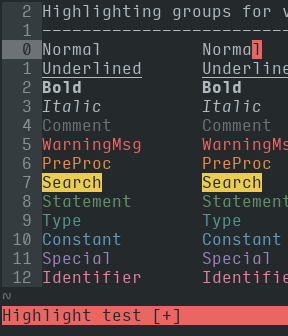
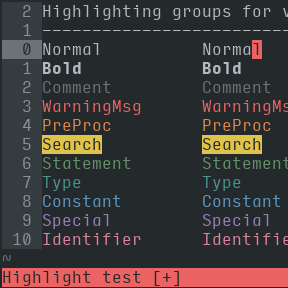
overhaul

Changed region(s): [[0.0, 0.0, 0.5, 0.875], [0.1562, 0.0, 1.0, 0.875], [0.0, 0.875, 1.0, 1.0]]

diff --git a/README.md b/README.md
@@ -10,6 +10,10 @@
 <td align="center"><strong>forgotten-<br />dark</strong></td></tr>
 </table>
 
+<blockquote>
+  <p>pictured font: <a href="http://input.fontbureau.com/">Input Mono</a></p>
+</blockquote>
+
 <h2 id="setup">setup</h2>
 
 <h3 id="installation">installation</h3>
@@ -60,8 +64,8 @@ call plug#end()
   <li>8 theme-distinct <strong>base colours</strong></li>
   <li>8 standard <strong>accent colours</strong> (shared by members of the “nightsense theme family”) for syntax highlighting
     <ul>
-      <li>hue selection at the scale of 1/12 (30°) colour wheel intervals, followed by 1/12 subinterval adjustments</li>
-      <li>value and saturation tuned for light backgrounds, then saturation lowered for dark backgrounds</li>
+      <li>hues were selected at the scale of 1/12 (30°) colour wheel intervals, followed by 1/12 subinterval adjustments</li>
+      <li>value and saturation were tuned for light backgrounds, then saturation was lowered for dark backgrounds</li>
     </ul>
   </li>
 </ul>
@@ -77,67 +81,67 @@ call plug#end()
   <tbody>
     <tr>
       <td style="text-align: right"><img src="http://www.colorhexa.com/24292b.png" height="24" width="42" /> <code class="highlighter-rouge">24292b</code> </td>
-      <td style="text-align: center"><img src="http://www.colorhexa.com/eb403a.png" height="24" width="42" /> <code class="highlighter-rouge">eb403a</code> </td>
-      <td style="text-align: left"><img src="http://www.colorhexa.com/eb6663.png" height="24" width="42" /> <code class="highlighter-rouge">eb6663</code></td>
+      <td style="text-align: center"><img src="http://www.colorhexa.com/eb3a3a.png" height="24" width="42" /> <code class="highlighter-rouge">eb3a3a</code> </td>
+      <td style="text-align: left"><img src="http://www.colorhexa.com/eb6363.png" height="24" width="42" /> <code class="highlighter-rouge">eb6363</code></td>
     </tr>
     <tr>
       <td style="text-align: right"><img src="http://www.colorhexa.com/353c40.png" height="24" width="42" /> <code class="highlighter-rouge">353c40</code> </td>
-      <td style="text-align: center"><img src="http://www.colorhexa.com/eb6d13.png" height="24" width="42" /> <code class="highlighter-rouge">eb6d13</code> </td>
-      <td style="text-align: left"><img src="http://www.colorhexa.com/eb8f4e.png" height="24" width="42" /> <code class="highlighter-rouge">eb8f4e</code></td>
+      <td style="text-align: center"><img src="http://www.colorhexa.com/e06812.png" height="24" width="42" /> <code class="highlighter-rouge">e06812</code> </td>
+      <td style="text-align: left"><img src="http://www.colorhexa.com/e0894a.png" height="24" width="42" /> <code class="highlighter-rouge">e0894a</code></td>
     </tr>
     <tr>
       <td style="text-align: right"><img src="http://www.colorhexa.com/464f54.png" height="24" width="42" /> <code class="highlighter-rouge">464f54</code> </td>
-      <td style="text-align: center"><img src="http://www.colorhexa.com/ebc83b.png" height="24" width="42" /> <code class="highlighter-rouge">ebc83b</code> </td>
-      <td style="text-align: left"><img src="http://www.colorhexa.com/ebcc4e.png" height="24" width="42" /> <code class="highlighter-rouge">ebcc4e</code></td>
+      <td style="text-align: center"><img src="http://www.colorhexa.com/e0bf38.png" height="24" width="42" /> <code class="highlighter-rouge">e0bf38</code> </td>
+      <td style="text-align: left"><img src="http://www.colorhexa.com/e0c34a.png" height="24" width="42" /> <code class="highlighter-rouge">e0c34a</code></td>
     </tr>
     <tr>
       <td style="text-align: right"><img src="http://www.colorhexa.com/6c7275.png" height="24" width="42" /> <code class="highlighter-rouge">6c7275</code> </td>
-      <td style="text-align: center"><img src="http://www.colorhexa.com/259433.png" height="24" width="42" /> <code class="highlighter-rouge">259433</code> </td>
-      <td style="text-align: left"><img src="http://www.colorhexa.com/63946a.png" height="24" width="42" /> <code class="highlighter-rouge">63946a</code></td>
+      <td style="text-align: center"><img src="http://www.colorhexa.com/25942e.png" height="24" width="42" /> <code class="highlighter-rouge">25942e</code> </td>
+      <td style="text-align: left"><img src="http://www.colorhexa.com/639467.png" height="24" width="42" /> <code class="highlighter-rouge">639467</code></td>
     </tr>
     <tr>
       <td style="text-align: right"><img src="http://www.colorhexa.com/889094.png" height="24" width="42" /> <code class="highlighter-rouge">889094</code> </td>
-      <td style="text-align: center"><img src="http://www.colorhexa.com/009488.png" height="24" width="42" /> <code class="highlighter-rouge">009488</code> </td>
-      <td style="text-align: left"><img src="http://www.colorhexa.com/56948f.png" height="24" width="42" /> <code class="highlighter-rouge">56948f</code></td>
+      <td style="text-align: center"><img src="http://www.colorhexa.com/0c9489.png" height="24" width="42" /> <code class="highlighter-rouge">0c9489</code> </td>
+      <td style="text-align: left"><img src="http://www.colorhexa.com/4a948e.png" height="24" width="42" /> <code class="highlighter-rouge">4a948e</code></td>
     </tr>
     <tr>
       <td style="text-align: right"><img src="http://www.colorhexa.com/b0babf.png" height="24" width="42" /> <code class="highlighter-rouge">b0babf</code> </td>
-      <td style="text-align: center"><img src="http://www.colorhexa.com/308bbf.png" height="24" width="42" /> <code class="highlighter-rouge">308bbf</code> </td>
-      <td style="text-align: left"><img src="http://www.colorhexa.com/609cbf.png" height="24" width="42" /> <code class="highlighter-rouge">609cbf</code></td>
+      <td style="text-align: center"><img src="http://www.colorhexa.com/3083bf.png" height="24" width="42" /> <code class="highlighter-rouge">3083bf</code> </td>
+      <td style="text-align: left"><img src="http://www.colorhexa.com/6097bf.png" height="24" width="42" /> <code class="highlighter-rouge">6097bf</code></td>
     </tr>
     <tr>
       <td style="text-align: right"><img src="http://www.colorhexa.com/d7dde0.png" height="24" width="42" /> <code class="highlighter-rouge">d7dde0</code> </td>
-      <td style="text-align: center"><img src="http://www.colorhexa.com/8c60bf.png" height="24" width="42" /> <code class="highlighter-rouge">8c60bf</code> </td>
-      <td style="text-align: left"><img src="http://www.colorhexa.com/9e80bf.png" height="24" width="42" /> <code class="highlighter-rouge">9e80bf</code></td>
+      <td style="text-align: center"><img src="http://www.colorhexa.com/8760bf.png" height="24" width="42" /> <code class="highlighter-rouge">8760bf</code> </td>
+      <td style="text-align: left"><img src="http://www.colorhexa.com/9a80bf.png" height="24" width="42" /> <code class="highlighter-rouge">9a80bf</code></td>
     </tr>
     <tr>
       <td style="text-align: right"><img src="http://www.colorhexa.com/f5fbff.png" height="24" width="42" /> <code class="highlighter-rouge">f5fbff</code> </td>
-      <td style="text-align: center"><img src="http://www.colorhexa.com/e05e89.png" height="24" width="42" /> <code class="highlighter-rouge">e05e89</code> </td>
-      <td style="text-align: left"><img src="http://www.colorhexa.com/e082a1.png" height="24" width="42" /> <code class="highlighter-rouge">e082a1</code></td>
+      <td style="text-align: center"><img src="http://www.colorhexa.com/e05e85.png" height="24" width="42" /> <code class="highlighter-rouge">e05e85</code> </td>
+      <td style="text-align: left"><img src="http://www.colorhexa.com/e0829e.png" height="24" width="42" /> <code class="highlighter-rouge">e0829e</code></td>
     </tr>
   </tbody>
 </table>
 
-<p><img src="http://www.colorhexa.com/eb403a.png" height="24" width="42" />
+<p><img src="http://www.colorhexa.com/eb3a3a.png" height="24" width="42" />
 <strong>Red</strong>, the colour of alarm, is used for <strong>warning elements</strong>, including error messages, misspellings, and diff deletions.</p>
 
-<p><img src="http://www.colorhexa.com/eb6d13.png" height="24" width="42" />
+<p><img src="http://www.colorhexa.com/e06812.png" height="24" width="42" />
 <strong>Orange</strong> is the colour of fire, which serves as a preliminary to many practical activities. Orange is therefore used for <strong>preliminary elements</strong>, such as preprocessor commands (which prepare data to be handled by another program), incremental searching (that is, a search term in the process of being typed), titles, and miscapitalized words.</p>
 
-<p><img src="http://www.colorhexa.com/ebc83b.png" height="24" width="42" />
+<p><img src="http://www.colorhexa.com/e0bf38.png" height="24" width="42" />
 <strong>Yellow</strong>, the classic highlighting colour, is applied to elements that are not warnings yet should draw attention with high visibility. These <strong>highlighted elements</strong> include search results, task tags (<code class="highlighter-rouge">TODO</code>, <code class="highlighter-rouge">FIXME</code>…), and diff changes.</p>
 
-<p><img src="http://www.colorhexa.com/259433.png" height="24" width="42" />
-<strong>Green</strong>, the colour that says “go ahead, proceed with the task at hand”, is used for positive <strong>action elements</strong>, such as statements (if/then, while/do, case…), mode indicators (insert, visual…), vim user prompts, and diff additions.</p>
+<p><img src="http://www.colorhexa.com/25942e.png" height="24" width="42" />
+<strong>Green</strong>, the colour that says “go ahead, proceed with the task at hand”, is used for <strong>action elements</strong>, such as statements (if/then, while/do, case…), mode indicators (insert, visual…), vim user prompts, and diff additions.</p>
 
-<p><img src="http://www.colorhexa.com/009488.png" height="24" width="42" />
+<p><img src="http://www.colorhexa.com/0c9489.png" height="24" width="42" />
 <strong>Teal</strong> is named after the “common teal”, a kind of duck, thus connecting this colour with the concept of “species”, which is a means of classifying life into very specific types. Teal is therefore used for specifying <strong>object types</strong>, such as data type (boolean, integer, string…) or storage class (static, volatile…), as well as mislocalized words (that is, words that are not misspelled but of the wrong type, namely a foreign locale type).</p>
 
-<p><img src="http://www.colorhexa.com/308bbf.png" height="24" width="42" />
+<p><img src="http://www.colorhexa.com/3083bf.png" height="24" width="42" />
 <strong>Blue</strong>, a colour of calm stability, is used for <strong>constants</strong>, which come in the form of boolean values, integers, floating-point numbers, characters, and strings.</p>
 
-<p><img src="http://www.colorhexa.com/8c60bf.png" height="24" width="42" />
+<p><img src="http://www.colorhexa.com/8760bf.png" height="24" width="42" />
 <strong>Purple</strong>, often associated with rare purple dyes historically produced for special works of art, is used for <strong>special text</strong>, including special characters (standalone or within syntax units), vim tags, and debugging statements. Rarely-used words are also marked, allowing the writer to consider whether such a specially uncommon word is appropriate.</p>
 
-<p><img src="http://www.colorhexa.com/e05e89.png" height="24" width="42" />
+<p><img src="http://www.colorhexa.com/e05e85.png" height="24" width="42" />
 <strong>Pink</strong>, the colour of spring blossoms, is used for <strong>object names</strong>, including the names of variables and functions. To code is to bring countless objects blossoming into existence as one types their names.</p>
